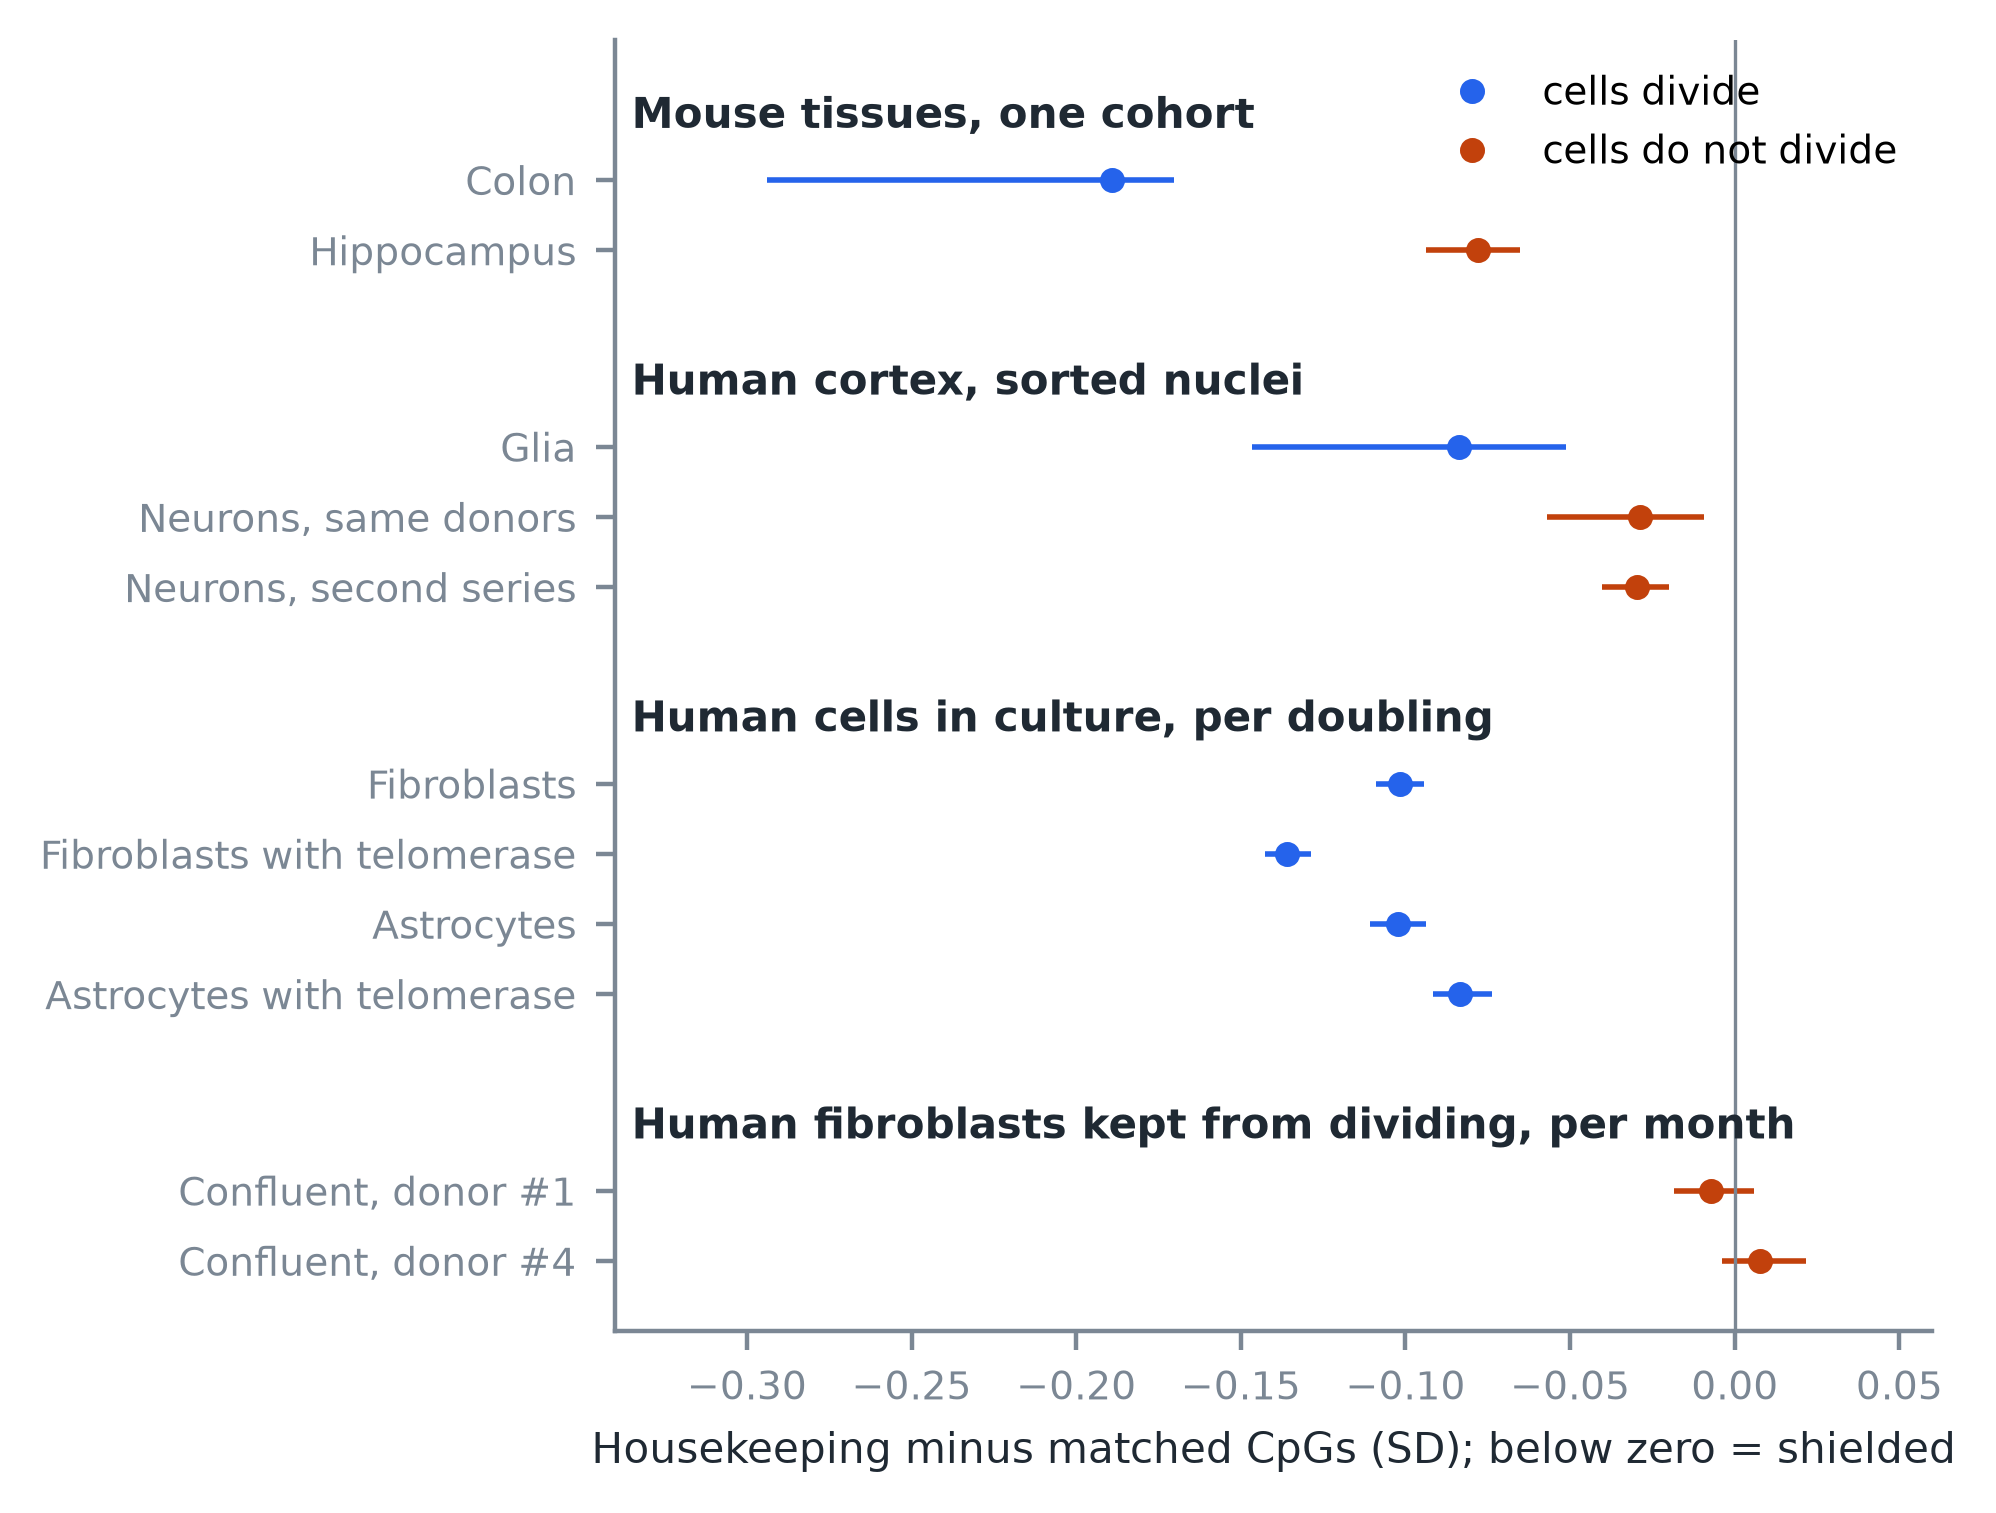
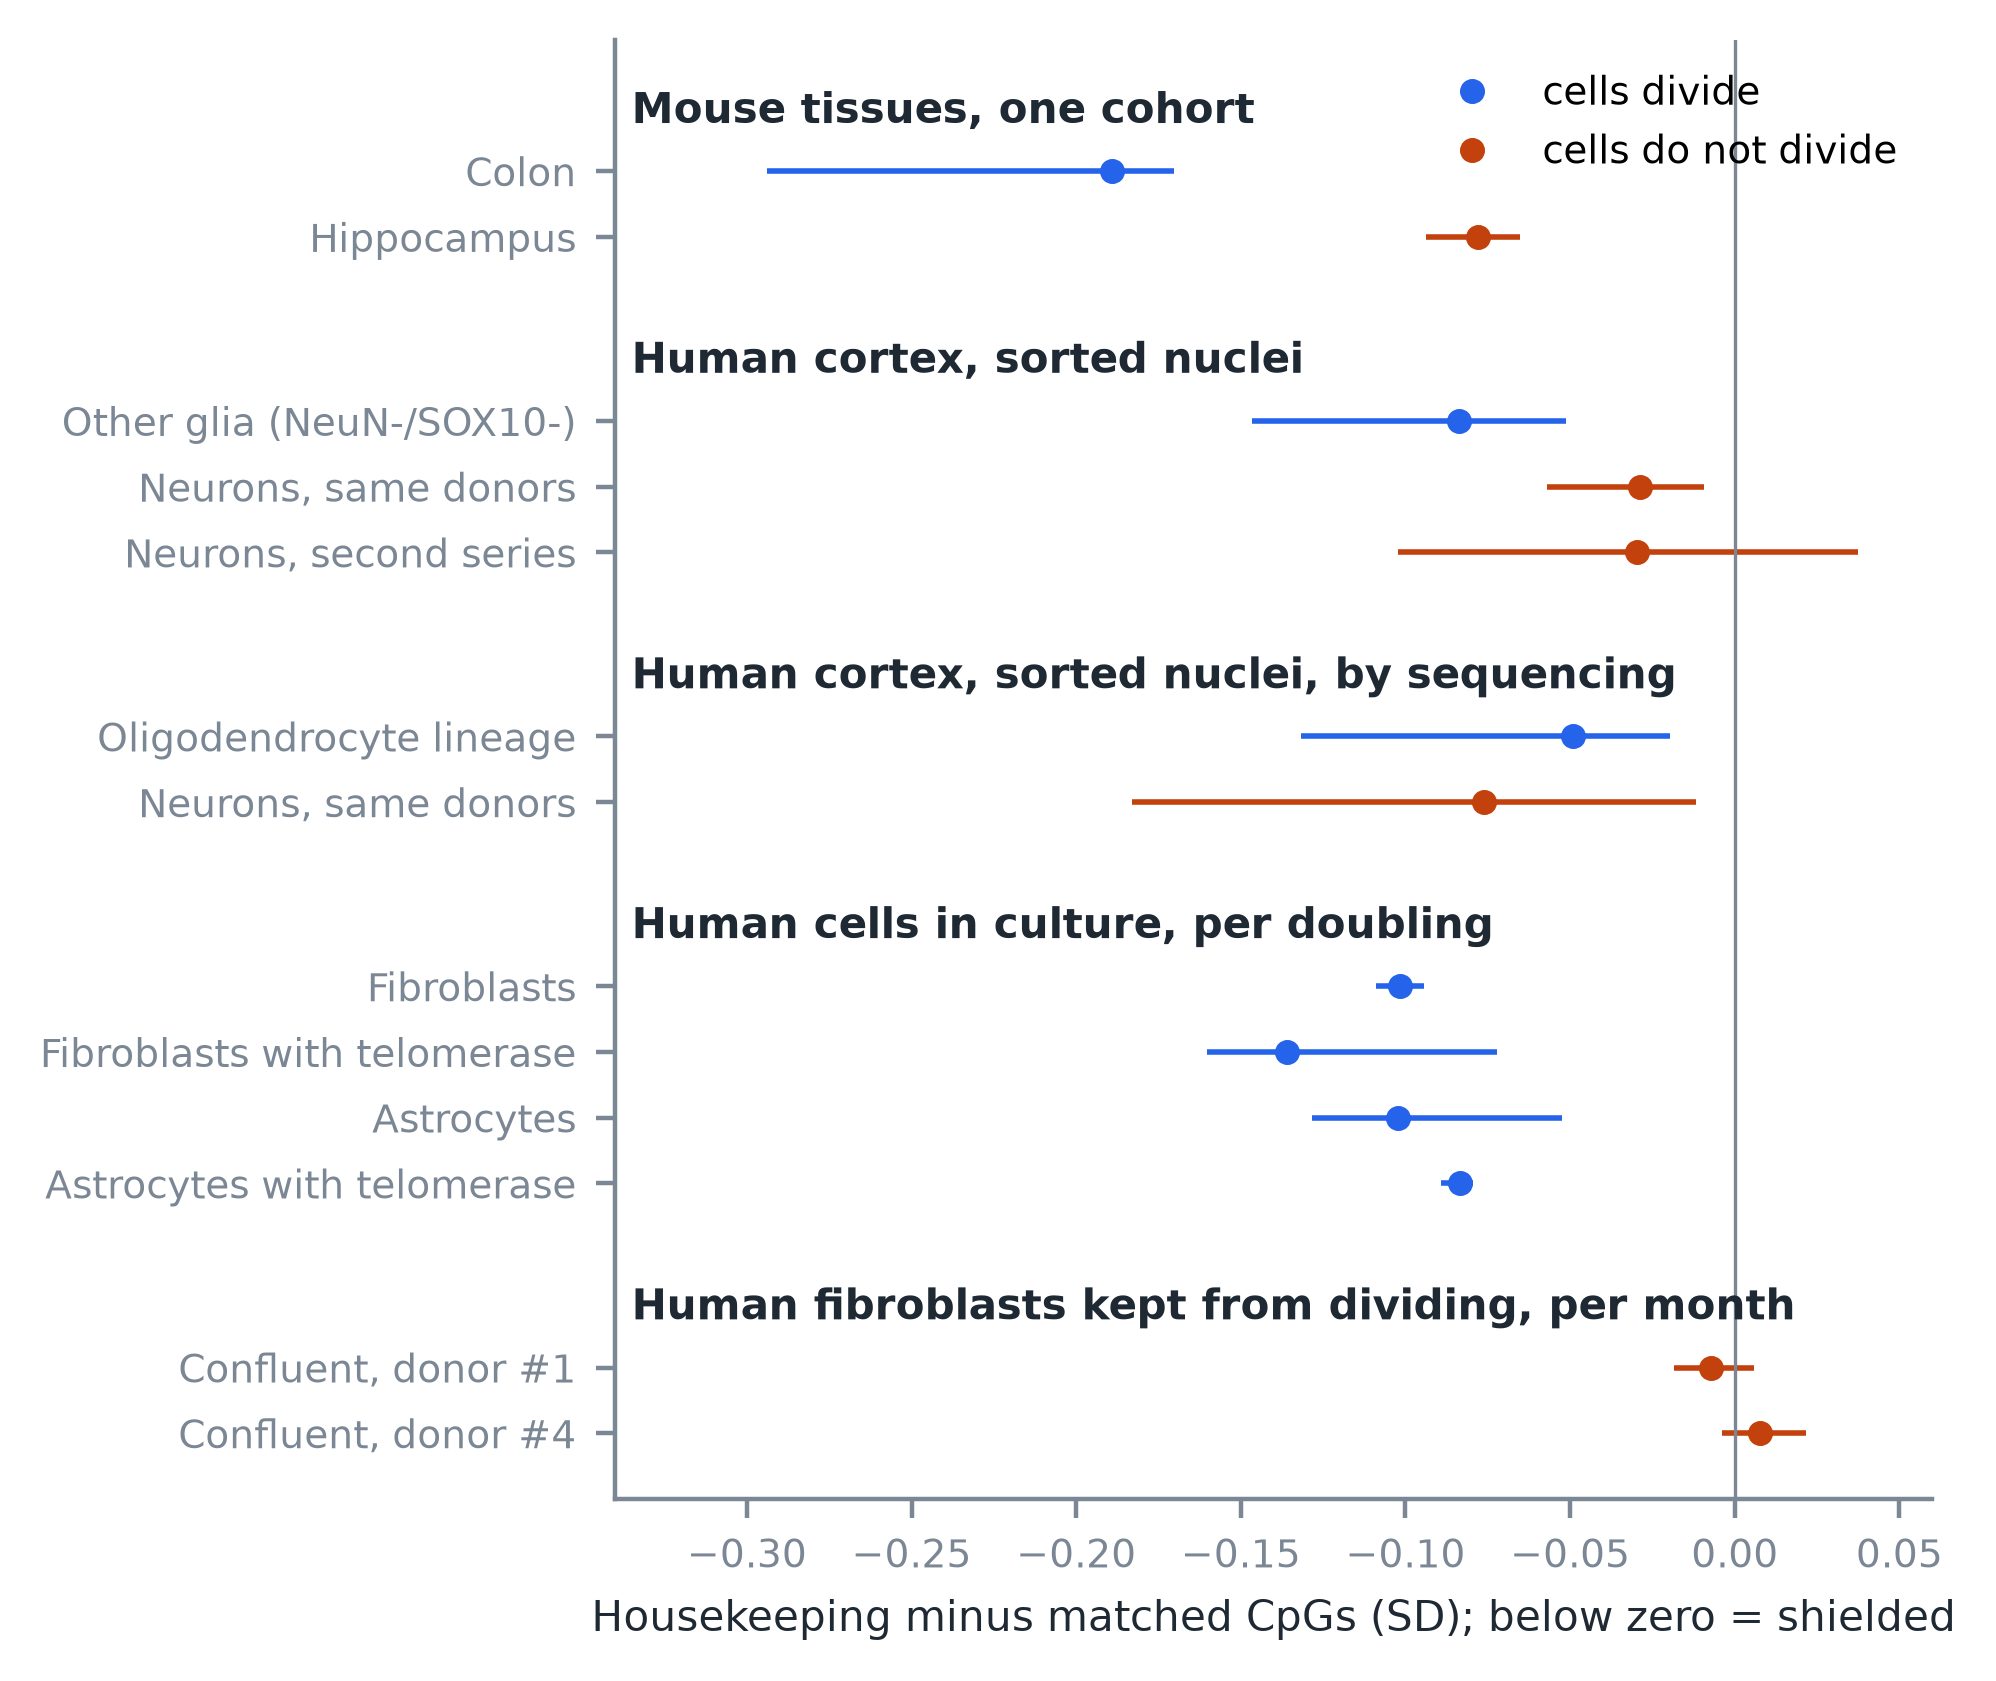
Figure 5: donor and culture intervals, sequencing rows, glial fraction named; caption
Seat: entropy-age/lead

diff --git a/src/entropy_age/experiments/headline_figures.py b/src/entropy_age/experiments/headline_figures.py
@@ -63,6 +63,8 @@ def division_rows(ctx: Context) -> list[dict]:
     rows: list[dict] = []
 
     def add(block: str, label: str, gap: float, low: float, high: float, divides: bool) -> None:
+        # intervals resample animals, donors or cultures; untreated fibroblasts and the confluent cultures keep the
+        # gene-resampling interval (no culture bootstrap was run for them), as the caption says
         rows.append({"block": block, "label": label, "gap": gap, "low": low, "high": high, "divides": divides})
 
     jena = _read(ctx, "jena_rrbs", "gaps")
@@ -73,7 +75,7 @@ def division_rows(ctx: Context) -> list[dict]:
     paired = _read(ctx, "nuclei_paired", "paired")
     if paired is not None:
         r = _housekeeping(paired, "glia", "other glia (NeuN-/SOX10-)").row(0, named=True)
-        add("Human cortex, sorted nuclei", "Glia", r["gap_glia"], r["gap_glia_low"], r["gap_glia_high"], True)
+        add("Human cortex, sorted nuclei", "Other glia (NeuN-/SOX10-)", r["gap_glia"], r["gap_glia_low"], r["gap_glia_high"], True)
         add(
             "Human cortex, sorted nuclei",
             "Neurons, same donors",
@@ -82,16 +84,30 @@ def division_rows(ctx: Context) -> list[dict]:
             r["gap_neurons_high"],
             False,
         )
-    neurons = _read(ctx, "neuron_series", "gaps")
+    neurons = _read(ctx, "series_neurons", "gaps")  # the shared runner: donor-resampling interval
     if neurons is not None:
         r = neurons.filter(
             (pl.col("metric") == "kl_slope")
             & (pl.col("group") == "housekeeping")
             & (pl.col("band") == "all")
-            & (pl.col("covariates") == "sex + chip")
-            & pl.col("cohort").str.contains("every donor")
+            & (pl.col("covariates") == "held + chip")
+            & (pl.col("cohort") == "neurons, every donor")
         ).row(0, named=True)
-        add("Human cortex, sorted nuclei", "Neurons, second series", r["gap_sd"], r["ci_low"], r["ci_high"], False)
+        add(
+            "Human cortex, sorted nuclei",
+            "Neurons, second series",
+            r["gap_sd"],
+            r["donor_ci_low"],
+            r["donor_ci_high"],
+            False,
+        )
+    wgbs = _read(ctx, "wgbs_nuclei", "paired")
+    if wgbs is not None:
+        r = _housekeeping(wgbs, "donors_used", "every donor (diagnosis held)").row(0, named=True)
+        block = "Human cortex, sorted nuclei, by sequencing"
+        add(block, "Oligodendrocyte lineage", r["gap_oligodendrocytes"], r["gap_oligodendrocytes_low"],
+            r["gap_oligodendrocytes_high"], True)  # fmt: skip
+        add(block, "Neurons, same donors", r["gap_neurons"], r["gap_neurons_low"], r["gap_neurons_high"], False)
     culture = "Human cells in culture, per doubling"
     for label, folder, column, value in (
         ("Fibroblasts", "sturm_expression_rsesame", "matching", BEFORE),
@@ -102,7 +118,12 @@ def division_rows(ctx: Context) -> list[dict]:
         table = _read(ctx, folder, "matched_gaps")
         if table is not None:
             r = _housekeeping(table, column, value).row(0, named=True)
-            add(culture, label, r["gap_sd"], r["ci_low"], r["ci_high"], True)
+            low, high = r["ci_low"], r["ci_high"]
+            boot = _read(ctx, folder, "culture_bootstrap")  # cultures resampled within line, where it was run
+            if boot is not None:
+                b = _housekeeping(boot, column if column == "cells" else None, value).row(0, named=True)
+                low, high = b["ci_low"], b["ci_high"]
+            add(culture, label, r["gap_sd"], low, high, True)
     arrest = _read(ctx, "arrest_timecourse", "gaps")
     if arrest is not None:
         for donor in ("Donor #1", "Donor #4"):  # the two donors whose arrays are not ordered by time along the chip

diff --git a/manuscript/paper.md b/manuscript/paper.md
@@ -318,12 +318,16 @@ not recorded; one immortalised line and two astrocyte donors), and none separate
 
 ![Figure 5](../docs/figures/division_shield.png)
 
-**Figure 5. The shield goes with cell division.** Housekeeping promoter CpGs minus matched CpGs (SD of the
-relative-entropy slope; 95 % intervals), in series where the compared groups share chips or flowcells. Blue: cells
-that divide; orange: cells that do not. Mouse colon and hippocampus of one cohort; glia and neurons sorted from the same human cortices, and
-neurons of a second series with chip intercepts; human cells in culture; confluent fibroblasts kept from dividing
-(the two donors whose arrays are not ordered by time along the chip). Slopes are on age in tissues and nuclei, on
-population doublings in culture and on months in confluent cultures, so sizes are compared within a block.
+**Figure 5. The housekeeping gap in dividing and non-dividing cells.** Housekeeping promoter CpGs minus matched CpGs
+(SD of the relative-entropy slope; 95 % intervals), in series where the compared groups share chips or flowcells.
+Blue: cells that divide; orange: cells that do not. Mouse colon and hippocampus of one cohort (mice resampled);
+NeuN−/SOX10− glia and neurons sorted from the same human cortices (donors resampled together) and neurons of a
+second series with chip intercepts (donors resampled); the oligodendrocyte lineage and neurons of the same cortices
+by whole-genome bisulfite sequencing (donors resampled together); cells in culture (cultures resampled within line,
+except untreated fibroblasts, whose interval resamples genes); confluent fibroblasts kept from dividing (the two
+donors whose arrays are not ordered by time along the chip; genes resampled). Slopes are on age in tissues and
+nuclei, on population doublings in culture and on months in confluent cultures, so sizes are compared within a
+block. The glial excess is not seen in the oligodendrocyte lineage by either platform.
 
 ### Tet3 loss weakens the shield in mouse brain; Tet1 loss, in another study, does not
 

diff --git a/docs/CHANGELOG.md b/docs/CHANGELOG.md
@@ -4,6 +4,7 @@ Newest first.
 
 ## Unreleased
 
+- 2026-11-24: Figure 5 redrawn: neurons of the second series with their donor-resampling interval, the sequencing rows (oligodendrocyte lineage and neurons of the same brains), culture rows with culture-resampling intervals, the glial row labelled as the NeuN−/SOX10− fraction; caption names each interval type (review item).
 - 2026-11-24: R145: exercise training barely moves promoter methylation beyond array noise (about a hundredth of replicative senescence); the share essential promoters carry after 4 weeks (−0.22) resembles that over a period without training (−0.15); loading and unloading too small to read. Paper, run log, Table S5.
 - 2026-11-24: figures muscle_training: vastus lateralis before and after 4, 8 and 12 weeks of interval training and across a control period without training (GSE171140), and after one bout, loading, unloading and reloading (GSE114763); per CpG methylation on condition with person and chip held; noise-removed squared change from baseline and the share essential promoters carry (as senescence_donors, whose estimator now takes its arms as a parameter); each person left out in turn (R145). Anton asked about trainable tissues.
 - 2026-11-24: R144: by WGBS of the same 41 brains, neurons and the oligodendrocyte lineage both carry the housekeeping gap and do not differ (+0.027, −0.081 to +0.116); the glia-over-neuron result rests on one fraction of one array series. R140b: the single-cell gap holds with old cells thinned to the young depth (−0.085); both in the paper, run log and Table S5.
